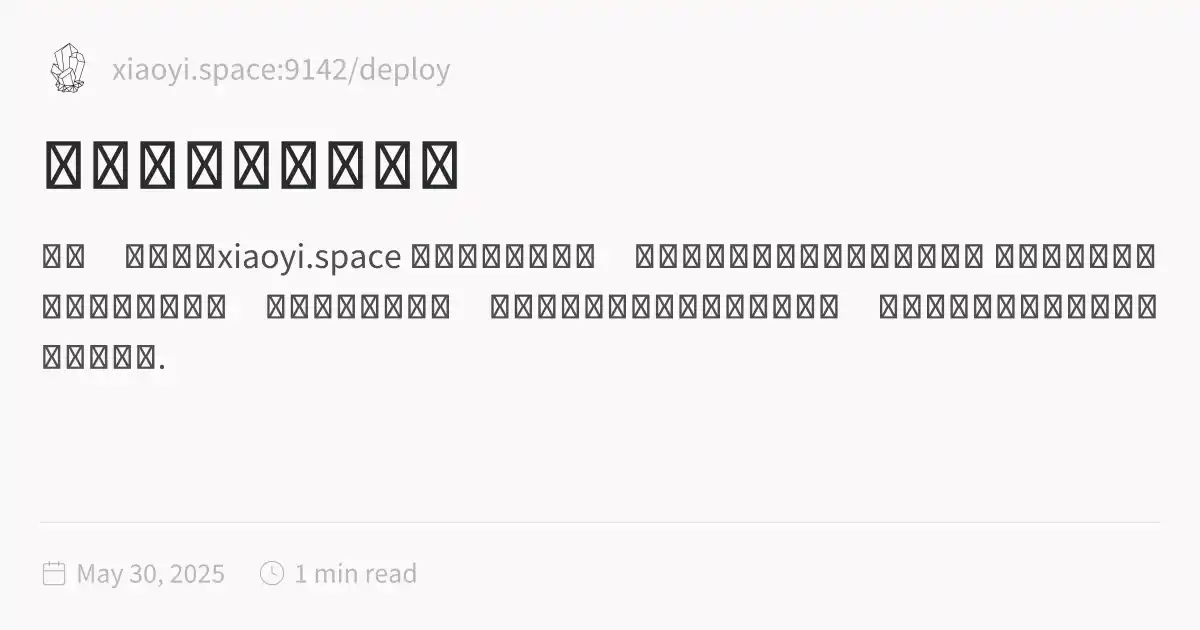
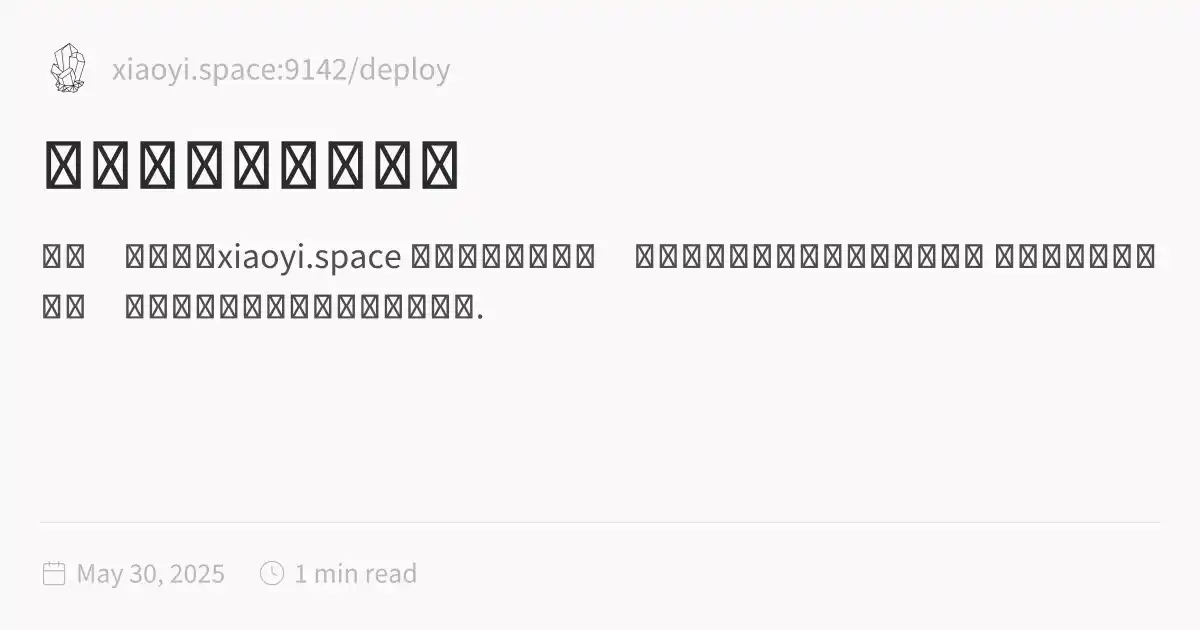
feature:update deploy/为什么搭建这个博客.html

Changed region(s): [[0.37, 0.4524, 0.9867, 0.5127], [0.0617, 0.4524, 0.2158, 0.5127], [0.0308, 0.5429, 0.1542, 0.6032]]

diff --git a/deploy/为什么搭建这个博客.html b/deploy/为什么搭建这个博客.html
@@ -1,5 +1,5 @@
 <!DOCTYPE html>
-<html lang="en"><head><title>为什么搭建这个博客</title><meta charset="utf-8"/><link rel="preconnect" href="https://fonts.googleapis.com"/><link rel="preconnect" href="https://fonts.gstatic.com"/><link rel="stylesheet" href="https://fonts.googleapis.com/css2?family=Schibsted Grotesk:wght@400;700&amp;family=Source Sans Pro:ital,wght@0,400;0,600;1,400;1,600&amp;family=IBM Plex Mono:wght@400;600&amp;display=swap"/><link rel="preconnect" href="https://cdnjs.cloudflare.com" crossorigin="anonymous"/><meta name="viewport" content="width=device-width, initial-scale=1.0"/><meta name="og:site_name" content="xiaoyili.space"/><meta property="og:title" content="为什么搭建这个博客"/><meta property="og:type" content="website"/><meta name="twitter:card" content="summary_large_image"/><meta name="twitter:title" content="为什么搭建这个博客"/><meta name="twitter:description" content="你好，欢迎来到xiaoyi.space 一种一时间的冲动，想把自己的经历、感悟分享出去。 但是我期待的是有缘人无意中看到，而不是身边的熟人，可能追求一种「小确幸」的感觉吧，所以选择了隐藏在这个互联网的角落。."/><meta property="og:description" content="你好，欢迎来到xiaoyi.space 一种一时间的冲动，想把自己的经历、感悟分享出去。 但是我期待的是有缘人无意中看到，而不是身边的熟人，可能追求一种「小确幸」的感觉吧，所以选择了隐藏在这个互联网的角落。."/><meta property="og:image:alt" content="你好，欢迎来到xiaoyi.space 一种一时间的冲动，想把自己的经历、感悟分享出去。 但是我期待的是有缘人无意中看到，而不是身边的熟人，可能追求一种「小确幸」的感觉吧，所以选择了隐藏在这个互联网的角落。."/><meta property="twitter:domain" content="xiaoyi.space:9142/deploy"/><meta property="og:url" content="https://xiaoyi.space:9142/deploy/为什么搭建这个博客"/><meta property="twitter:url" content="https://xiaoyi.space:9142/deploy/为什么搭建这个博客"/><link rel="icon" href="./static/icon.png"/><meta name="description" content="你好，欢迎来到xiaoyi.space 一种一时间的冲动，想把自己的经历、感悟分享出去。 但是我期待的是有缘人无意中看到，而不是身边的熟人，可能追求一种「小确幸」的感觉吧，所以选择了隐藏在这个互联网的角落。."/><meta name="generator" content="Quartz"/><link href="./index.css" rel="stylesheet" type="text/css" spa-preserve/><style>.expand-button {
+<html lang="en"><head><title>为什么搭建这个博客</title><meta charset="utf-8"/><link rel="preconnect" href="https://fonts.googleapis.com"/><link rel="preconnect" href="https://fonts.gstatic.com"/><link rel="stylesheet" href="https://fonts.googleapis.com/css2?family=Schibsted Grotesk:wght@400;700&amp;family=Source Sans Pro:ital,wght@0,400;0,600;1,400;1,600&amp;family=IBM Plex Mono:wght@400;600&amp;display=swap"/><link rel="preconnect" href="https://cdnjs.cloudflare.com" crossorigin="anonymous"/><meta name="viewport" content="width=device-width, initial-scale=1.0"/><meta name="og:site_name" content="xiaoyili.space"/><meta property="og:title" content="为什么搭建这个博客"/><meta property="og:type" content="website"/><meta name="twitter:card" content="summary_large_image"/><meta name="twitter:title" content="为什么搭建这个博客"/><meta name="twitter:description" content="你好，欢迎来到xiaoyi.space 一种一时间的冲动，想把自己的经历、感悟分享出去。 让这些文字变成一种，「可能有一天被人看到的状态」。."/><meta property="og:description" content="你好，欢迎来到xiaoyi.space 一种一时间的冲动，想把自己的经历、感悟分享出去。 让这些文字变成一种，「可能有一天被人看到的状态」。."/><meta property="og:image:alt" content="你好，欢迎来到xiaoyi.space 一种一时间的冲动，想把自己的经历、感悟分享出去。 让这些文字变成一种，「可能有一天被人看到的状态」。."/><meta property="twitter:domain" content="xiaoyi.space:9142/deploy"/><meta property="og:url" content="https://xiaoyi.space:9142/deploy/为什么搭建这个博客"/><meta property="twitter:url" content="https://xiaoyi.space:9142/deploy/为什么搭建这个博客"/><link rel="icon" href="./static/icon.png"/><meta name="description" content="你好，欢迎来到xiaoyi.space 一种一时间的冲动，想把自己的经历、感悟分享出去。 让这些文字变成一种，「可能有一天被人看到的状态」。."/><meta name="generator" content="Quartz"/><link href="./index.css" rel="stylesheet" type="text/css" spa-preserve/><style>.expand-button {
   position: absolute;
   display: flex;
   float: right;
@@ -116,9 +116,9 @@ pre:hover > .expand-button {
   padding: 0 12px;
   font-size: 14px;
 }
[1 lines of base64/hex data omitted]
-<p>一种一时间的冲动，想把自己的经历、感悟分享出去。</p>
-<p>但是我期待的是有缘人无意中看到，而不是身边的熟人，可能追求一种「小确幸」的感觉吧，所以选择了隐藏在这个互联网的角落。</p></article><hr/><div class="page-footer"></div></div><div class="right sidebar"><div class="graph"><h3>Graph View</h3><div class="graph-outer"><div class="graph-container" data-cfg="{&quot;drag&quot;:true,&quot;zoom&quot;:true,&quot;depth&quot;:1,&quot;scale&quot;:1.1,&quot;repelForce&quot;:0.5,&quot;centerForce&quot;:0.3,&quot;linkDistance&quot;:30,&quot;fontSize&quot;:0.6,&quot;opacityScale&quot;:1,&quot;showTags&quot;:true,&quot;removeTags&quot;:[],&quot;focusOnHover&quot;:false,&quot;enableRadial&quot;:false}"></div><button class="global-graph-icon" aria-label="Global Graph"><svg version="1.1" xmlns="http://www.w3.org/2000/svg" xmlns:xlink="http://www.w3.org/1999/xlink" x="0px" y="0px" viewBox="0 0 55 55" fill="currentColor" xml:space="preserve"><path d="M49,0c-3.309,0-6,2.691-6,6c0,1.035,0.263,2.009,0.726,2.86l-9.829,9.829C32.542,17.634,30.846,17,29,17
[1 lines of base64/hex data omitted]
+<p>一种一时间的冲动，想把自己的经历、感悟分享出去。
+让这些文字变成一种，「可能有一天被人看到的状态」。</p></article><hr/><div class="page-footer"></div></div><div class="right sidebar"><div class="graph"><h3>Graph View</h3><div class="graph-outer"><div class="graph-container" data-cfg="{&quot;drag&quot;:true,&quot;zoom&quot;:true,&quot;depth&quot;:1,&quot;scale&quot;:1.1,&quot;repelForce&quot;:0.5,&quot;centerForce&quot;:0.3,&quot;linkDistance&quot;:30,&quot;fontSize&quot;:0.6,&quot;opacityScale&quot;:1,&quot;showTags&quot;:true,&quot;removeTags&quot;:[],&quot;focusOnHover&quot;:false,&quot;enableRadial&quot;:false}"></div><button class="global-graph-icon" aria-label="Global Graph"><svg version="1.1" xmlns="http://www.w3.org/2000/svg" xmlns:xlink="http://www.w3.org/1999/xlink" x="0px" y="0px" viewBox="0 0 55 55" fill="currentColor" xml:space="preserve"><path d="M49,0c-3.309,0-6,2.691-6,6c0,1.035,0.263,2.009,0.726,2.86l-9.829,9.829C32.542,17.634,30.846,17,29,17
                 s-3.542,0.634-4.898,1.688l-7.669-7.669C16.785,10.424,17,9.74,17,9c0-2.206-1.794-4-4-4S9,6.794,9,9s1.794,4,4,4
                 c0.74,0,1.424-0.215,2.019-0.567l7.669,7.669C21.634,21.458,21,23.154,21,25s0.634,3.542,1.688,4.897L10.024,42.562
                 C8.958,41.595,7.549,41,6,41c-3.309,0-6,2.691-6,6s2.691,6,6,6s6-2.691,6-6c0-1.035-0.263-2.009-0.726-2.86l12.829-12.829

diff --git a/deploy/index.html b/deploy/index.html
@@ -116,7 +116,7 @@ pre:hover > .expand-button {
   padding: 0 12px;
   font-size: 14px;
 }
[2 lines of base64/hex data omitted]
                 s-3.542,0.634-4.898,1.688l-7.669-7.669C16.785,10.424,17,9.74,17,9c0-2.206-1.794-4-4-4S9,6.794,9,9s1.794,4,4,4
                 c0.74,0,1.424-0.215,2.019-0.567l7.669,7.669C21.634,21.458,21,23.154,21,25s0.634,3.542,1.688,4.897L10.024,42.562
                 C8.958,41.595,7.549,41,6,41c-3.309,0-6,2.691-6,6s2.691,6,6,6s6-2.691,6-6c0-1.035-0.263-2.009-0.726-2.86l12.829-12.829
